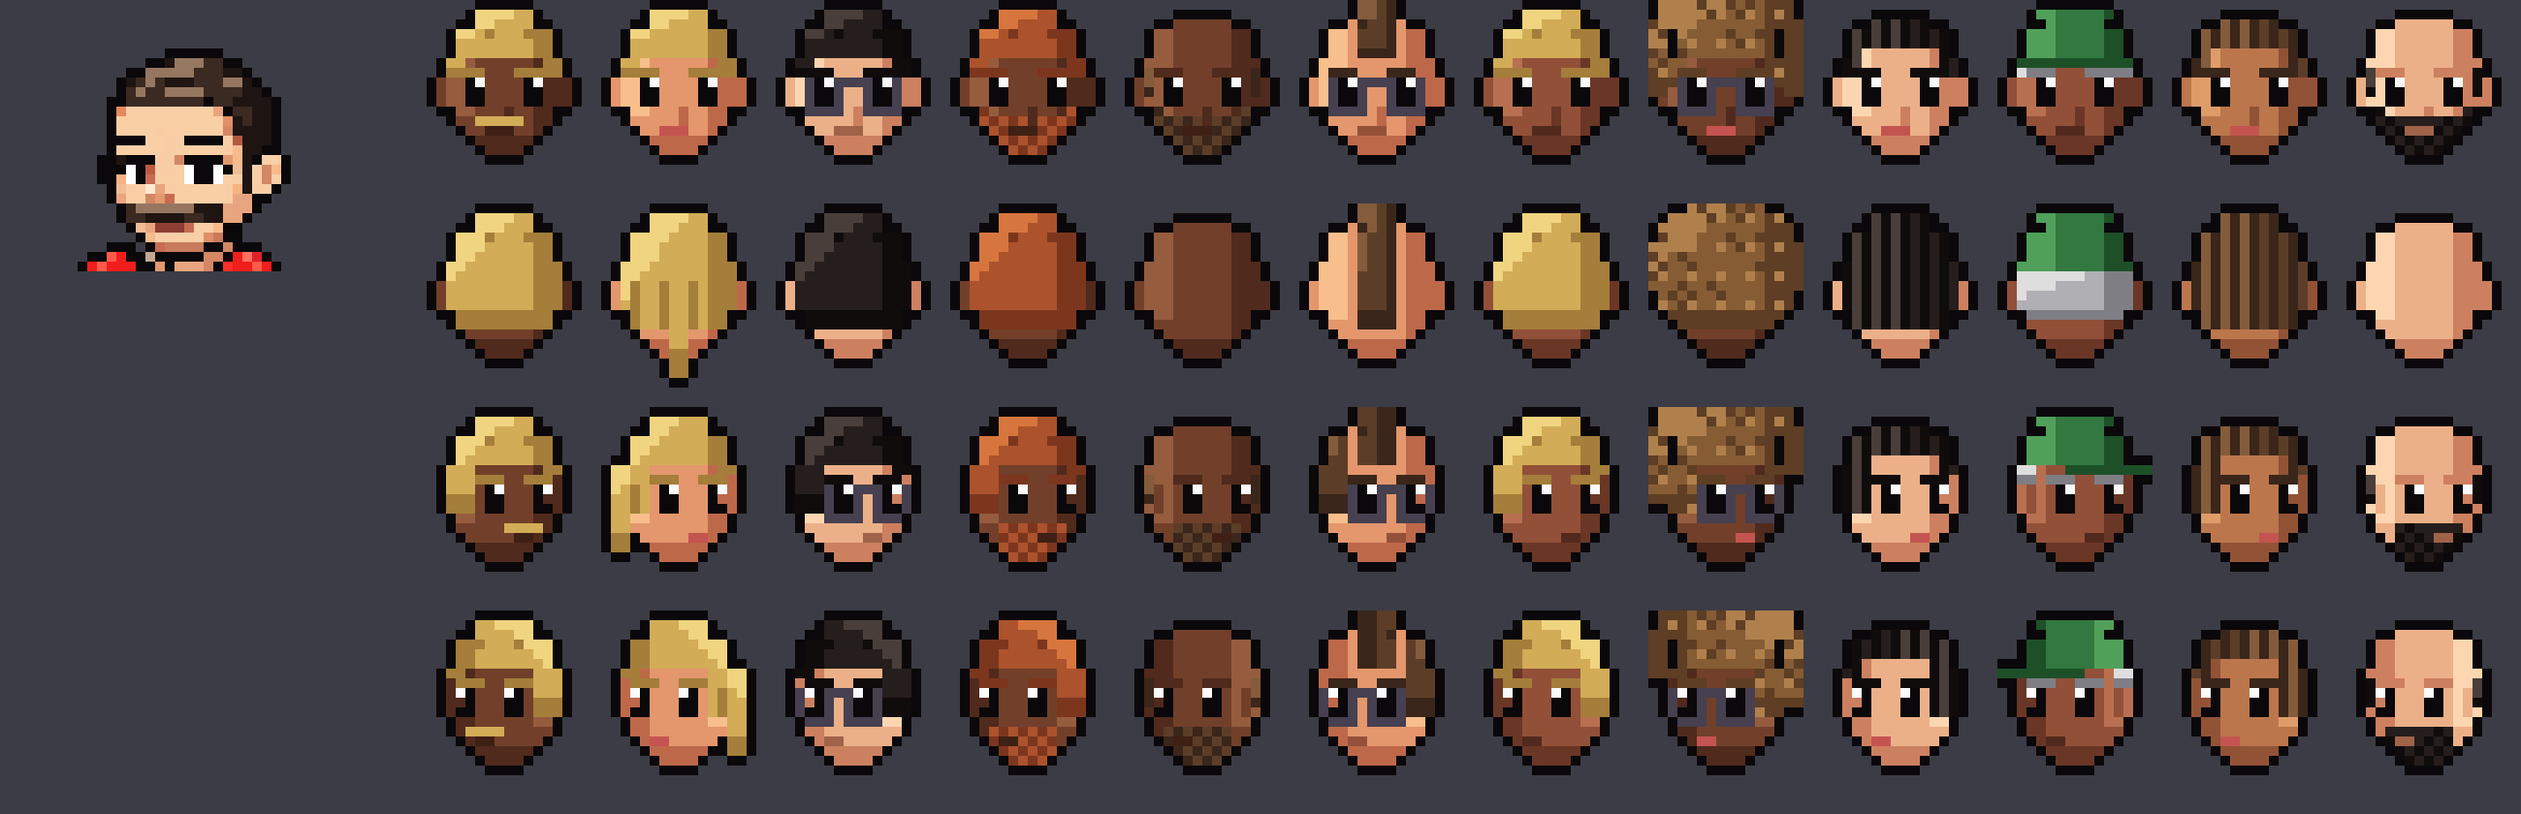
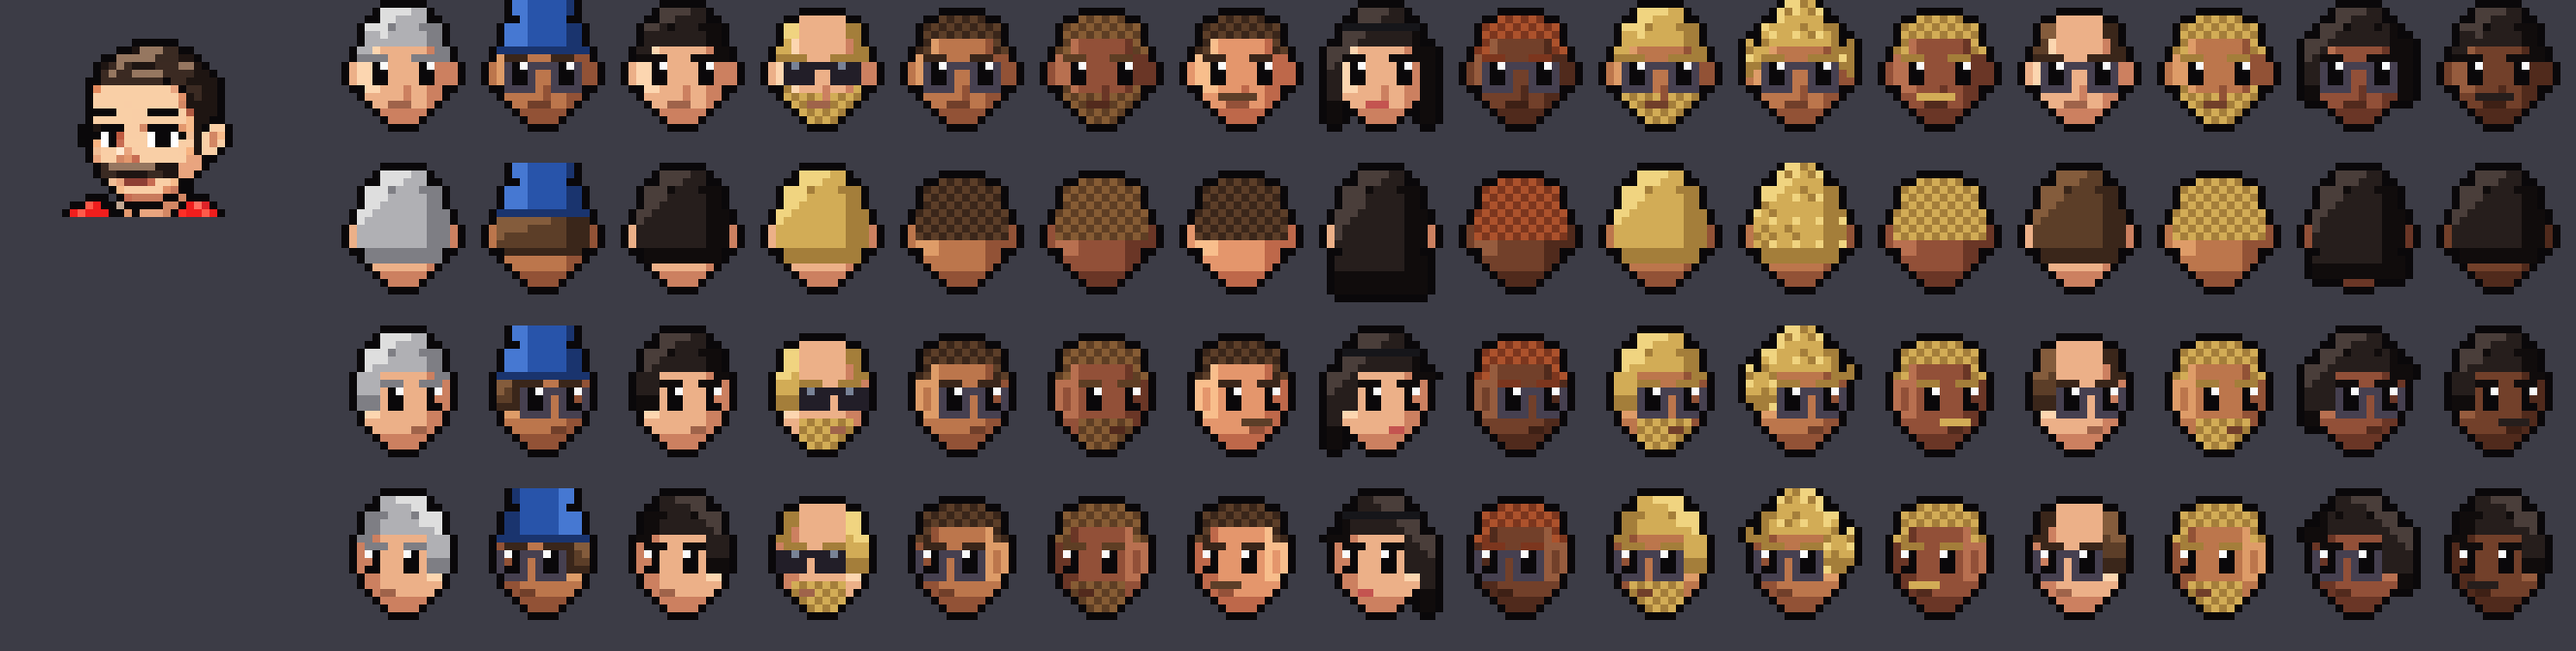
Fãs: sem moicano; mais penteados, óculos de sol, pera, barba rala, brincos
Claude-Session: https://claude.ai/code/session_01KDZthyf9r1UXjaFXmiFsU3

diff --git a/arte/cenario/fas/caras.py b/arte/cenario/fas/caras.py
@@ -9,7 +9,7 @@ PELES = [((252, 214, 176), (236, 176, 136), (204, 128, 96)), ((248, 190, 140), (
 CABELOS = [((74, 62, 58), (38, 30, 28), (16, 12, 12)), ((132, 92, 60), (92, 62, 40), (58, 38, 26)),
            ((176, 128, 76), (134, 92, 52), (94, 62, 36)), ((240, 212, 128), (210, 172, 86), (164, 126, 58)),
            ((214, 118, 62), (172, 82, 44), (124, 54, 30)), ((222, 222, 222), (176, 176, 180), (126, 126, 132))]
-ESTILOS = ['curto', 'rapado', 'careca', 'caracois', 'comprido', 'rabo', 'bone', 'franja', 'afro', 'risca', 'moicano', 'carrapito', 'trancas', 'gorro', 'curto', 'rapado']
+ESTILOS = ['curto', 'rapado', 'careca', 'caracois', 'comprido', 'rabo', 'bone', 'franja', 'afro', 'risca', 'carrapito', 'trancas', 'gorro', 'entradas', 'topete', 'medio', 'bandolete', 'curto', 'rapado', 'curto']
 W, H = 16, 19
 # contorno da cabeça (cara) por linha: (x0, x1) de pele
 FORMA = {2: (5, 10), 3: (3, 12), 4: (3, 12), 5: (3, 12), 6: (2, 13), 7: (2, 13), 8: (2, 13), 9: (2, 13), 10: (2, 13),
@@ -28,7 +28,8 @@ def cabelo_mask(estilo, vista):
         if estilo == 'careca': return set()
         if estilo == 'rapado': return topo(9)
         if estilo in ('bone', 'gorro'): return {(x, y) for (x, y) in cara if 6 <= y <= 11}
-        if estilo == 'moicano': return {(x, y) for x in range(6, 10) for y in range(0, 13)} | {(x, y) for (x, y) in cara if y <= 9 and 6 <= x <= 9}
+        if estilo == 'medio': return topo(12, 0, 1) | {(x, y) for x in range(2, 14) for y in range(12, 15)}
+        if estilo == 'bandolete': return topo(12, 0, 1) | {(x, y) for x in range(2, 14) for y in range(12, 17)}
         if estilo == 'afro': return topo(12, 0, 3) | {(x, y) for x in range(0, 16) for y in range(0, 12) if (x - 7.5) ** 2 / 64 + (y - 6) ** 2 / 49 <= 1}
         if estilo == 'carrapito': return topo(12, 0, 1) | {(x, y) for x in range(5, 11) for y in range(-2, 2)}
         m = topo(12, 0, 2 if estilo == 'caracois' else 1)
@@ -39,7 +40,10 @@ def cabelo_mask(estilo, vista):
     if estilo == 'afro':
         m = topo(5, 3, 2) | {(x, y) for x in (0, 1, 14, 15) for y in range(2, 10)} | {(x, y) for x in range(1, 15) for y in range(0, 3)}
     elif estilo == 'risca': m = topo(5, 2, 1)
-    elif estilo == 'moicano': m = {(x, y) for x in range(6, 10) for y in range(0, 6)} | {(x, y) for (x, y) in cara if y <= 3 and 6 <= x <= 9}
+    elif estilo == 'entradas': m = {(x, y) for (x, y) in cara if y <= 4 and not (5 <= x <= 10 and y >= 2)} | {(x, y) for (x, y) in cara if y <= 7 and (x <= 3 or x >= 12)}
+    elif estilo == 'topete': m = topo(4, 2, 2) | {(x, y) for x in range(4, 11) for y in range(0, 2)}
+    elif estilo == 'medio': m = topo(5, 2, 1) | {(x, y) for x in (1, 2, 13, 14) for y in range(5, 13)}
+    elif estilo == 'bandolete': m = topo(5, 2, 1) | {(x, y) for x in (1, 2, 13, 14) for y in range(6, 16)}
     elif estilo == 'carrapito': m = topo(4, 2, 1) | {(x, y) for x in range(6, 10) for y in range(0, 1)}
     elif estilo == 'trancas': m = topo(4, 3)
     elif estilo == 'gorro': m = set()
@@ -65,6 +69,9 @@ def cara(pele, cab, estilo, barba, vista, mulher=False, bone=((222, 64, 54), (18
         for y in (8, 9, 10): pix[(3, y)] = 'orelha'
     for h in cabelo_mask(estilo, vista):
         if 0 <= h[0] < W and 0 <= h[1] < H: pix[h] = 'cabelo'
+    if estilo == 'bandolete' and vista != 'costas':
+        for x in range(3, 13):
+            if (x, 3) in pix: pix[(x, 3)] = 'aba'
     if estilo == 'gorro':
         for y in range(0, 7):
             if y in FORMA:
@@ -103,9 +110,11 @@ def cara(pele, cab, estilo, barba, vista, mulher=False, bone=((222, 64, 54), (18
             if estilo in ('caracois', 'afro'):
                 if x % 3 == 1 and y % 3 == 1: t = 0
                 elif (x % 3 == 0) != (y % 3 == 0) and (x * 7 + y * 3) % 5 < 2: t = 2
-            elif estilo in ('curto', 'franja', 'risca', 'carrapito', 'moicano'):
+            elif estilo in ('curto', 'franja', 'risca', 'carrapito', 'topete', 'entradas', 'medio', 'bandolete'):
                 if y == y0 + 2 and x % 4 == 2: t = 2         # algumas madeixas marcadas
                 if estilo == 'risca' and x == 5 and y <= y0 + 3: t = 0
+            elif estilo in ('comprido', 'rabo', 'medio', 'bandolete') and y > 7:
+                if x % 3 == 0: t = 2
             elif estilo in ('comprido', 'rabo'):
                 if y > 7 and x % 3 == 0: t = 2               # fios a descer
             elif estilo == 'rapado':
@@ -130,6 +139,23 @@ def cara(pele, cab, estilo, barba, vista, mulher=False, bone=((222, 64, 54), (18
         if extra == 'bigode':
             for x in range(boca[0] - 1, boca[1] + 1):
                 if (x, 12) in pix: p[x, 12] = cab[1] + (255,)
+        if extra == 'escuros':                                # óculos de sol
+            for ex in olhos:
+                for x in range(ex - 1, ex + 3):
+                    for y in (8, 9, 10):
+                        if (x, y) in pix: p[x, y] = (34, 30, 40, 255)
+                if (ex, 8) in pix: p[ex, 8] = (120, 130, 150, 255)
+            for x in range(olhos[0] + 2, olhos[1] - 1):
+                if (x, 8) in pix: p[x, 8] = (34, 30, 40, 255)
+        if extra == 'pera':
+            for x in range(boca[0], boca[1]):
+                if (x, 14) in pix: p[x, 14] = cab[1] + (255,)
+            if (boca[0], 15) in pix: p[boca[0], 15] = cab[1] + (255,)
+        if extra == 'rala':
+            for (x, y) in list(pix):
+                if pix[(x, y)] == 'pele' and y >= 12 and (x + y) % 2 == 0 and (vista == 'frente' or x >= 5): p[x, y] = pele[2] + (255,)
+        if extra == 'brinco' and vista == 'frente':
+            p[1, 11] = (240, 200, 60, 255)
         if extra == 'oculos':                                 # armação fina e escura à volta dos olhos, com ponte
             ARM = (70, 64, 80)
             for ex in olhos:
@@ -155,10 +181,9 @@ def gerar(n, seed=1):
     random.seed(seed); out = []
     for i in range(n):
         estilo = random.choice(ESTILOS)
-        mulher = estilo in ('comprido', 'rabo', 'carrapito') or (estilo in ('afro', 'trancas', 'franja') and random.random() < .5)
+        mulher = estilo in ('comprido', 'rabo', 'carrapito', 'bandolete') or (estilo in ('afro', 'trancas', 'franja') and random.random() < .5)
         cab = random.choice(CABELOS[:5]) if random.random() < .88 else CABELOS[5]
-        extra = None if mulher else random.choice([None, None, None, 'bigode', 'oculos'])
-        if mulher and random.random() < .15: extra = 'oculos'
+        extra = random.choice([None, None, 'bigode', 'oculos', 'oculos', 'escuros', 'pera', 'rala']) if not mulher else random.choice([None, None, 'oculos', 'escuros', 'brinco', 'brinco'])
         out.append(dict(pele=random.choice(PELES), cab=cab, estilo=estilo, barba=(not mulher) and random.random() < 0.25,
                         mulher=mulher, bone=random.choice(BONES), extra=extra))
     return out
@@ -170,8 +195,8 @@ def vistas(d):
     return f, c, r, r.transpose(Image.FLIP_LEFT_RIGHT)
 if __name__ == '__main__':
     import sys
-    D = gerar(12, 11); Z = 10
-    out = Image.new('RGBA', (12 * 18 * Z + 44 * Z, 4 * 21 * Z), (60, 60, 70, 255))
+    D = gerar(16, 23); Z = 8
+    out = Image.new('RGBA', (16 * 18 * Z + 44 * Z, 4 * 21 * Z), (60, 60, 70, 255))
     atl = Image.open('/home/user/Corner-Men/arte/cabecas-pixellab/variantes/00-corpo-base/south-west.png').convert('RGBA').crop((0, 0, 40, 28))
     out.alpha_composite(atl.resize((40 * Z, 28 * Z), Image.NEAREST), (0, 0))
     for i, d in enumerate(D):
